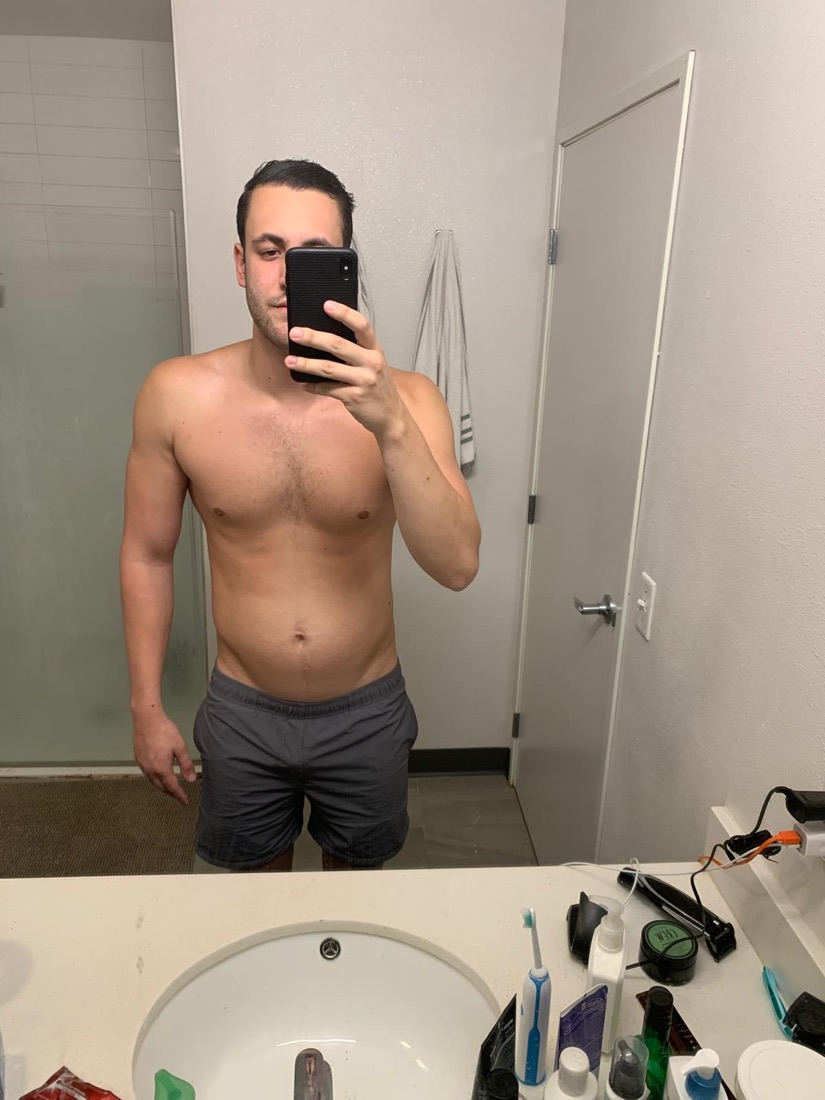
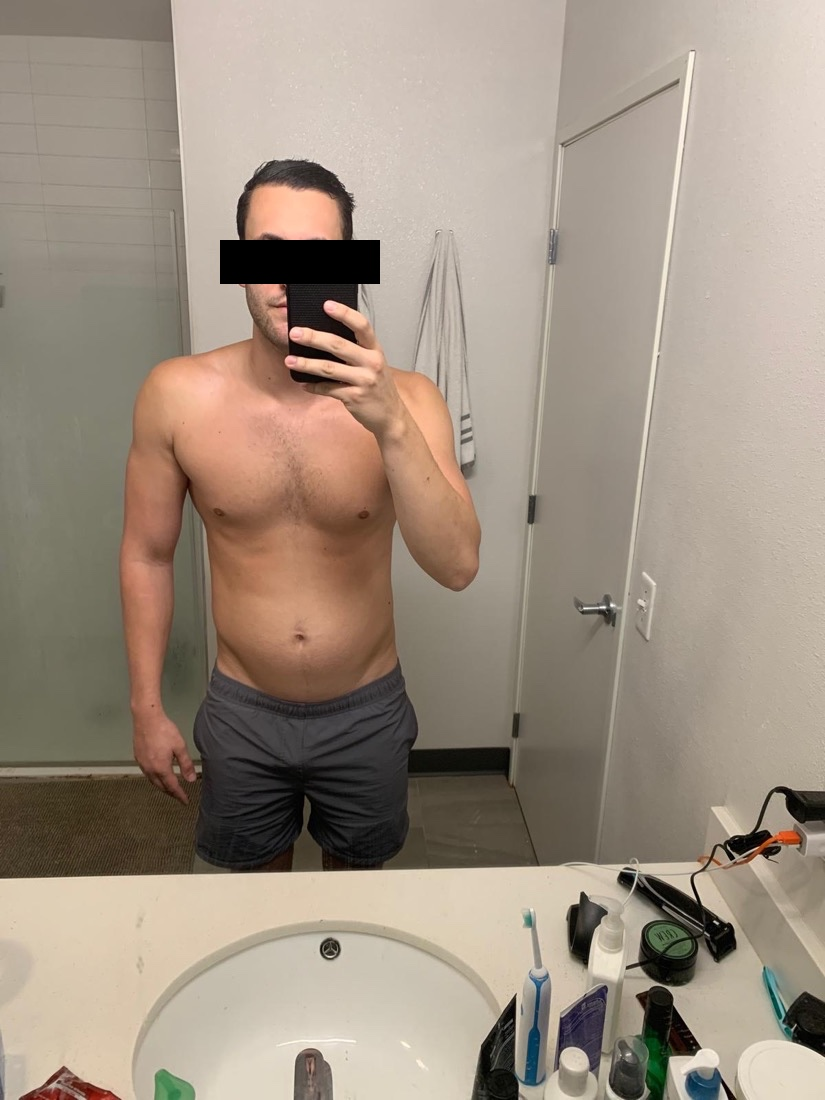
Landing: barra en los ojos para todos los testimonios

Changed region(s): [[0.2424, 0.2164, 0.4848, 0.2782]]

diff --git a/public/vsl/landing-escritorio.html b/public/vsl/landing-escritorio.html
@@ -121,12 +121,12 @@ setTimeout(revisar,0);addEventListener('load',function(){setTimeout(revisar,0)})
         <div class="ecc-bezel ecc-bezel-on-dark">
           <div class="ecc-bezel-core ecc-bezel-core-on-dark" style="padding:0;overflow:hidden" aria-roledescription="carrusel" aria-label="Testimonios">
             <div style="display:flex;transition:transform .7s cubic-bezier(.32,.72,0,1);transform:{{ testiTrack }}">
-              <a href="#testimonios" class="ecc-hero-testi" data-testi="0" style="flex:0 0 100%;min-width:0;box-sizing:border-box;padding:var(--space-4) var(--space-5);display:flex;align-items:center;gap:var(--space-4);text-decoration:none;color:inherit"><div style="position:relative;flex:none;width:52px;height:52px;border-radius:999px;overflow:hidden"><img src="assets/testimonios/testimonio-1-despues.jpg" alt="" loading="lazy" style="position:absolute;inset:0;width:100%;height:100%;object-fit:cover;object-position:50% 22%"></div><div style="display:flex;flex-direction:column;gap:4px;min-width:0"><p style="font-size:14px;line-height:1.5;font-weight:600;color:var(--text-on-dark)">«Me dijeron que era mi genética.»</p><p style="font-size:12px;line-height:1.4;color:var(--text-on-dark-faint)">Héctor V, 27 · Miami, USA · <span class="ecc-hero-testi-ver">Ver su antes y después ↓</span></p></div></a>
-              <a href="#testimonios" class="ecc-hero-testi" data-testi="1" style="flex:0 0 100%;min-width:0;box-sizing:border-box;padding:var(--space-4) var(--space-5);display:flex;align-items:center;gap:var(--space-4);text-decoration:none;color:inherit"><div style="position:relative;flex:none;width:52px;height:52px;border-radius:999px;overflow:hidden"><img src="assets/testimonios/testimonio-2-despues.jpg" alt="" loading="lazy" style="position:absolute;inset:0;width:100%;height:100%;object-fit:cover;object-position:50% 25%"></div><div style="display:flex;flex-direction:column;gap:4px;min-width:0"><p style="font-size:14px;line-height:1.5;font-weight:600;color:var(--text-on-dark)">«Por fin pude ganar músculo.»</p><p style="font-size:12px;line-height:1.4;color:var(--text-on-dark-faint)">Luis F, 31 · Nueva York, USA · <span class="ecc-hero-testi-ver">Ver su antes y después ↓</span></p></div></a>
+              <a href="#testimonios" class="ecc-hero-testi" data-testi="0" style="flex:0 0 100%;min-width:0;box-sizing:border-box;padding:var(--space-4) var(--space-5);display:flex;align-items:center;gap:var(--space-4);text-decoration:none;color:inherit"><div style="position:relative;flex:none;width:52px;height:52px;border-radius:999px;overflow:hidden"><img src="assets/testimonios/testimonio-1-despues.jpg?v=9" alt="" loading="lazy" style="position:absolute;inset:0;width:100%;height:100%;object-fit:cover;object-position:50% 22%"></div><div style="display:flex;flex-direction:column;gap:4px;min-width:0"><p style="font-size:14px;line-height:1.5;font-weight:600;color:var(--text-on-dark)">«Me dijeron que era mi genética.»</p><p style="font-size:12px;line-height:1.4;color:var(--text-on-dark-faint)">Héctor V, 27 · Miami, USA · <span class="ecc-hero-testi-ver">Ver su antes y después ↓</span></p></div></a>
+              <a href="#testimonios" class="ecc-hero-testi" data-testi="1" style="flex:0 0 100%;min-width:0;box-sizing:border-box;padding:var(--space-4) var(--space-5);display:flex;align-items:center;gap:var(--space-4);text-decoration:none;color:inherit"><div style="position:relative;flex:none;width:52px;height:52px;border-radius:999px;overflow:hidden"><img src="assets/testimonios/testimonio-2-despues.jpg?v=9" alt="" loading="lazy" style="position:absolute;inset:0;width:100%;height:100%;object-fit:cover;object-position:50% 25%"></div><div style="display:flex;flex-direction:column;gap:4px;min-width:0"><p style="font-size:14px;line-height:1.5;font-weight:600;color:var(--text-on-dark)">«Por fin pude ganar músculo.»</p><p style="font-size:12px;line-height:1.4;color:var(--text-on-dark-faint)">Luis F, 31 · Nueva York, USA · <span class="ecc-hero-testi-ver">Ver su antes y después ↓</span></p></div></a>
               <a href="#testimonios" class="ecc-hero-testi" data-testi="2" style="flex:0 0 100%;min-width:0;box-sizing:border-box;padding:var(--space-4) var(--space-5);display:flex;align-items:center;gap:var(--space-4);text-decoration:none;color:inherit"><div style="position:relative;flex:none;width:52px;height:52px;border-radius:999px;overflow:hidden"><img src="assets/testimonios/testimonio-6-despues.jpg?v=5" alt="" loading="lazy" style="position:absolute;inset:0;width:100%;height:100%;object-fit:cover;object-position:50% 15%"></div><div style="display:flex;flex-direction:column;gap:4px;min-width:0"><p style="font-size:14px;line-height:1.5;font-weight:600;color:var(--text-on-dark)">«Bajé de peso sin pasar hambre.»</p><p style="font-size:12px;line-height:1.4;color:var(--text-on-dark-faint)">Juan Manuel M, 35 · Miami, USA · <span class="ecc-hero-testi-ver">Ver su antes y después ↓</span></p></div></a>
               <a href="#testimonios" class="ecc-hero-testi" data-testi="3" style="flex:0 0 100%;min-width:0;box-sizing:border-box;padding:var(--space-4) var(--space-5);display:flex;align-items:center;gap:var(--space-4);text-decoration:none;color:inherit"><div style="position:relative;flex:none;width:52px;height:52px;border-radius:999px;overflow:hidden"><img src="assets/testimonios/testimonio-3-despues.jpg?v=3" alt="" loading="lazy" style="position:absolute;inset:0;width:100%;height:100%;object-fit:cover;object-position:60% 15%"></div><div style="display:flex;flex-direction:column;gap:4px;min-width:0"><p style="font-size:14px;line-height:1.5;font-weight:600;color:var(--text-on-dark)">«Estoy más fit que nunca.»</p><p style="font-size:12px;line-height:1.4;color:var(--text-on-dark-faint)">Rodolfo V, 31 · Santiago, Chile · <span class="ecc-hero-testi-ver">Ver su antes y después ↓</span></p></div></a>
               <a href="#testimonios" class="ecc-hero-testi" data-testi="4" style="flex:0 0 100%;min-width:0;box-sizing:border-box;padding:var(--space-4) var(--space-5);display:flex;align-items:center;gap:var(--space-4);text-decoration:none;color:inherit"><div style="position:relative;flex:none;width:52px;height:52px;border-radius:999px;overflow:hidden"><img src="assets/testimonios/testimonio-4-despues.jpg?v=3" alt="" loading="lazy" style="position:absolute;inset:0;width:100%;height:100%;object-fit:cover;object-position:50% 12%"></div><div style="display:flex;flex-direction:column;gap:4px;min-width:0"><p style="font-size:14px;line-height:1.5;font-weight:600;color:var(--text-on-dark)">«Dejé las dietas extremas y gané músculo.»</p><p style="font-size:12px;line-height:1.4;color:var(--text-on-dark-faint)">Diego L, 34 · Buenos Aires, Argentina · <span class="ecc-hero-testi-ver">Ver su antes y después ↓</span></p></div></a>
-              <a href="#testimonios" class="ecc-hero-testi" data-testi="5" style="flex:0 0 100%;min-width:0;box-sizing:border-box;padding:var(--space-4) var(--space-5);display:flex;align-items:center;gap:var(--space-4);text-decoration:none;color:inherit"><div style="position:relative;flex:none;width:52px;height:52px;border-radius:999px;overflow:hidden"><img src="assets/testimonios/testimonio-5-despues.jpg" alt="" loading="lazy" style="position:absolute;inset:0;width:100%;height:100%;object-fit:cover;object-position:55% 18%"></div><div style="display:flex;flex-direction:column;gap:4px;min-width:0"><p style="font-size:14px;line-height:1.5;font-weight:600;color:var(--text-on-dark)">«El problema no era yo, era el plan.»</p><p style="font-size:12px;line-height:1.4;color:var(--text-on-dark-faint)">Alejandro F, 29 · Lima, Perú · <span class="ecc-hero-testi-ver">Ver su antes y después ↓</span></p></div></a>
+              <a href="#testimonios" class="ecc-hero-testi" data-testi="5" style="flex:0 0 100%;min-width:0;box-sizing:border-box;padding:var(--space-4) var(--space-5);display:flex;align-items:center;gap:var(--space-4);text-decoration:none;color:inherit"><div style="position:relative;flex:none;width:52px;height:52px;border-radius:999px;overflow:hidden"><img src="assets/testimonios/testimonio-5-despues.jpg?v=9" alt="" loading="lazy" style="position:absolute;inset:0;width:100%;height:100%;object-fit:cover;object-position:55% 18%"></div><div style="display:flex;flex-direction:column;gap:4px;min-width:0"><p style="font-size:14px;line-height:1.5;font-weight:600;color:var(--text-on-dark)">«El problema no era yo, era el plan.»</p><p style="font-size:12px;line-height:1.4;color:var(--text-on-dark-faint)">Alejandro F, 29 · Lima, Perú · <span class="ecc-hero-testi-ver">Ver su antes y después ↓</span></p></div></a>
             </div>
           </div>
         </div>
@@ -530,8 +530,8 @@ setTimeout(revisar,0);addEventListener('load',function(){setTimeout(revisar,0)})
           <div class="ecc-testi-slide" role="group" aria-roledescription="testimonio" aria-label="1 de 6">
             <div class="ecc-bezel"><div class="ecc-bezel-core ecc-testi-card">
               <div class="ecc-ad-par ecc-testi-fotos">
-                <div class="ecc-ad-foto"><img src="assets/testimonios/testimonio-1-antes.jpg" alt="Héctor V, antes" loading="lazy" style="object-position:50% 45%"><span>Antes</span></div>
-                <div class="ecc-ad-foto"><img src="assets/testimonios/testimonio-1-despues.jpg" alt="Héctor V, después" loading="lazy" style="object-position:42% 28%"><span>Después</span></div>
+                <div class="ecc-ad-foto"><img src="assets/testimonios/testimonio-1-antes.jpg?v=9" alt="Héctor V, antes" loading="lazy" style="object-position:50% 45%"><span>Antes</span></div>
+                <div class="ecc-ad-foto"><img src="assets/testimonios/testimonio-1-despues.jpg?v=9" alt="Héctor V, después" loading="lazy" style="object-position:42% 28%"><span>Después</span></div>
               </div>
               <div class="ecc-testi-texto">
                 <i class="ph-fill ph-quotes" aria-hidden="true"></i>
@@ -544,8 +544,8 @@ setTimeout(revisar,0);addEventListener('load',function(){setTimeout(revisar,0)})
           <div class="ecc-testi-slide" role="group" aria-roledescription="testimonio" aria-label="2 de 6">
             <div class="ecc-bezel"><div class="ecc-bezel-core ecc-testi-card">
               <div class="ecc-ad-par ecc-testi-fotos">
-                <div class="ecc-ad-foto"><img src="assets/testimonios/testimonio-2-antes.jpg" alt="Luis F, antes" loading="lazy" style="object-position:40% 25%"><span>Antes</span></div>
-                <div class="ecc-ad-foto"><img src="assets/testimonios/testimonio-2-despues.jpg" alt="Luis F, después" loading="lazy" style="object-position:50% 45%"><span>Después</span></div>
+                <div class="ecc-ad-foto"><img src="assets/testimonios/testimonio-2-antes.jpg?v=9" alt="Luis F, antes" loading="lazy" style="object-position:40% 25%"><span>Antes</span></div>
+                <div class="ecc-ad-foto"><img src="assets/testimonios/testimonio-2-despues.jpg?v=9" alt="Luis F, después" loading="lazy" style="object-position:50% 45%"><span>Después</span></div>
               </div>
               <div class="ecc-testi-texto">
                 <i class="ph-fill ph-quotes" aria-hidden="true"></i>
@@ -600,8 +600,8 @@ setTimeout(revisar,0);addEventListener('load',function(){setTimeout(revisar,0)})
           <div class="ecc-testi-slide" role="group" aria-roledescription="testimonio" aria-label="6 de 6">
             <div class="ecc-bezel"><div class="ecc-bezel-core ecc-testi-card">
               <div class="ecc-ad-par ecc-testi-fotos">
-                <div class="ecc-ad-foto"><img src="assets/testimonios/testimonio-5-antes.jpg" alt="Alejandro F, antes" loading="lazy" style="object-position:50% 50%"><span>Antes</span></div>
-                <div class="ecc-ad-foto"><img src="assets/testimonios/testimonio-5-despues.jpg" alt="Alejandro F, después" loading="lazy" style="object-position:50% 50%"><span>Después</span></div>
+                <div class="ecc-ad-foto"><img src="assets/testimonios/testimonio-5-antes.jpg?v=9" alt="Alejandro F, antes" loading="lazy" style="object-position:50% 50%"><span>Antes</span></div>
+                <div class="ecc-ad-foto"><img src="assets/testimonios/testimonio-5-despues.jpg?v=9" alt="Alejandro F, después" loading="lazy" style="object-position:50% 50%"><span>Después</span></div>
               </div>
               <div class="ecc-testi-texto">
                 <i class="ph-fill ph-quotes" aria-hidden="true"></i>

diff --git a/public/vsl/landing-movil.html b/public/vsl/landing-movil.html
@@ -143,12 +143,12 @@ setTimeout(revisar,0);addEventListener('load',function(){setTimeout(revisar,0)})
         <div class="ecc-bezel ecc-bezel-on-dark">
           <div class="ecc-bezel-core ecc-bezel-core-on-dark" style="padding:0;overflow:hidden" aria-roledescription="carrusel" aria-label="Testimonios">
             <div style="display:flex;transition:transform .7s cubic-bezier(.32,.72,0,1);transform:{{ testiTrack }}">
-              <a href="#testimonios" class="ecc-hero-testi" data-testi="0" style="flex:0 0 100%;min-width:0;box-sizing:border-box;padding:var(--space-4) var(--space-5);display:flex;align-items:center;gap:var(--space-4);text-decoration:none;color:inherit"><div style="position:relative;flex:none;width:52px;height:52px;border-radius:999px;overflow:hidden"><img src="assets/testimonios/testimonio-1-despues.jpg" alt="" loading="lazy" style="position:absolute;inset:0;width:100%;height:100%;object-fit:cover;object-position:50% 22%"></div><div style="display:flex;flex-direction:column;gap:4px;min-width:0"><p style="font-size:14px;line-height:1.5;font-weight:600;color:var(--text-on-dark)">«Me dijeron que era mi genética.»</p><p style="font-size:12px;line-height:1.4;color:var(--text-on-dark-faint)">Héctor V, 27 · Miami, USA · <span class="ecc-hero-testi-ver">Ver su antes y después ↓</span></p></div></a>
-              <a href="#testimonios" class="ecc-hero-testi" data-testi="1" style="flex:0 0 100%;min-width:0;box-sizing:border-box;padding:var(--space-4) var(--space-5);display:flex;align-items:center;gap:var(--space-4);text-decoration:none;color:inherit"><div style="position:relative;flex:none;width:52px;height:52px;border-radius:999px;overflow:hidden"><img src="assets/testimonios/testimonio-2-despues.jpg" alt="" loading="lazy" style="position:absolute;inset:0;width:100%;height:100%;object-fit:cover;object-position:50% 25%"></div><div style="display:flex;flex-direction:column;gap:4px;min-width:0"><p style="font-size:14px;line-height:1.5;font-weight:600;color:var(--text-on-dark)">«Por fin pude ganar músculo.»</p><p style="font-size:12px;line-height:1.4;color:var(--text-on-dark-faint)">Luis F, 31 · Nueva York, USA · <span class="ecc-hero-testi-ver">Ver su antes y después ↓</span></p></div></a>
+              <a href="#testimonios" class="ecc-hero-testi" data-testi="0" style="flex:0 0 100%;min-width:0;box-sizing:border-box;padding:var(--space-4) var(--space-5);display:flex;align-items:center;gap:var(--space-4);text-decoration:none;color:inherit"><div style="position:relative;flex:none;width:52px;height:52px;border-radius:999px;overflow:hidden"><img src="assets/testimonios/testimonio-1-despues.jpg?v=9" alt="" loading="lazy" style="position:absolute;inset:0;width:100%;height:100%;object-fit:cover;object-position:50% 22%"></div><div style="display:flex;flex-direction:column;gap:4px;min-width:0"><p style="font-size:14px;line-height:1.5;font-weight:600;color:var(--text-on-dark)">«Me dijeron que era mi genética.»</p><p style="font-size:12px;line-height:1.4;color:var(--text-on-dark-faint)">Héctor V, 27 · Miami, USA · <span class="ecc-hero-testi-ver">Ver su antes y después ↓</span></p></div></a>
+              <a href="#testimonios" class="ecc-hero-testi" data-testi="1" style="flex:0 0 100%;min-width:0;box-sizing:border-box;padding:var(--space-4) var(--space-5);display:flex;align-items:center;gap:var(--space-4);text-decoration:none;color:inherit"><div style="position:relative;flex:none;width:52px;height:52px;border-radius:999px;overflow:hidden"><img src="assets/testimonios/testimonio-2-despues.jpg?v=9" alt="" loading="lazy" style="position:absolute;inset:0;width:100%;height:100%;object-fit:cover;object-position:50% 25%"></div><div style="display:flex;flex-direction:column;gap:4px;min-width:0"><p style="font-size:14px;line-height:1.5;font-weight:600;color:var(--text-on-dark)">«Por fin pude ganar músculo.»</p><p style="font-size:12px;line-height:1.4;color:var(--text-on-dark-faint)">Luis F, 31 · Nueva York, USA · <span class="ecc-hero-testi-ver">Ver su antes y después ↓</span></p></div></a>
               <a href="#testimonios" class="ecc-hero-testi" data-testi="2" style="flex:0 0 100%;min-width:0;box-sizing:border-box;padding:var(--space-4) var(--space-5);display:flex;align-items:center;gap:var(--space-4);text-decoration:none;color:inherit"><div style="position:relative;flex:none;width:52px;height:52px;border-radius:999px;overflow:hidden"><img src="assets/testimonios/testimonio-6-despues.jpg?v=5" alt="" loading="lazy" style="position:absolute;inset:0;width:100%;height:100%;object-fit:cover;object-position:50% 15%"></div><div style="display:flex;flex-direction:column;gap:4px;min-width:0"><p style="font-size:14px;line-height:1.5;font-weight:600;color:var(--text-on-dark)">«Bajé de peso sin pasar hambre.»</p><p style="font-size:12px;line-height:1.4;color:var(--text-on-dark-faint)">Juan Manuel M, 35 · Miami, USA · <span class="ecc-hero-testi-ver">Ver su antes y después ↓</span></p></div></a>
               <a href="#testimonios" class="ecc-hero-testi" data-testi="3" style="flex:0 0 100%;min-width:0;box-sizing:border-box;padding:var(--space-4) var(--space-5);display:flex;align-items:center;gap:var(--space-4);text-decoration:none;color:inherit"><div style="position:relative;flex:none;width:52px;height:52px;border-radius:999px;overflow:hidden"><img src="assets/testimonios/testimonio-3-despues.jpg?v=3" alt="" loading="lazy" style="position:absolute;inset:0;width:100%;height:100%;object-fit:cover;object-position:60% 15%"></div><div style="display:flex;flex-direction:column;gap:4px;min-width:0"><p style="font-size:14px;line-height:1.5;font-weight:600;color:var(--text-on-dark)">«Estoy más fit que nunca.»</p><p style="font-size:12px;line-height:1.4;color:var(--text-on-dark-faint)">Rodolfo V, 31 · Santiago, Chile · <span class="ecc-hero-testi-ver">Ver su antes y después ↓</span></p></div></a>
               <a href="#testimonios" class="ecc-hero-testi" data-testi="4" style="flex:0 0 100%;min-width:0;box-sizing:border-box;padding:var(--space-4) var(--space-5);display:flex;align-items:center;gap:var(--space-4);text-decoration:none;color:inherit"><div style="position:relative;flex:none;width:52px;height:52px;border-radius:999px;overflow:hidden"><img src="assets/testimonios/testimonio-4-despues.jpg?v=3" alt="" loading="lazy" style="position:absolute;inset:0;width:100%;height:100%;object-fit:cover;object-position:50% 12%"></div><div style="display:flex;flex-direction:column;gap:4px;min-width:0"><p style="font-size:14px;line-height:1.5;font-weight:600;color:var(--text-on-dark)">«Dejé las dietas extremas y gané músculo.»</p><p style="font-size:12px;line-height:1.4;color:var(--text-on-dark-faint)">Diego L, 34 · Buenos Aires, Argentina · <span class="ecc-hero-testi-ver">Ver su antes y después ↓</span></p></div></a>
-              <a href="#testimonios" class="ecc-hero-testi" data-testi="5" style="flex:0 0 100%;min-width:0;box-sizing:border-box;padding:var(--space-4) var(--space-5);display:flex;align-items:center;gap:var(--space-4);text-decoration:none;color:inherit"><div style="position:relative;flex:none;width:52px;height:52px;border-radius:999px;overflow:hidden"><img src="assets/testimonios/testimonio-5-despues.jpg" alt="" loading="lazy" style="position:absolute;inset:0;width:100%;height:100%;object-fit:cover;object-position:55% 18%"></div><div style="display:flex;flex-direction:column;gap:4px;min-width:0"><p style="font-size:14px;line-height:1.5;font-weight:600;color:var(--text-on-dark)">«El problema no era yo, era el plan.»</p><p style="font-size:12px;line-height:1.4;color:var(--text-on-dark-faint)">Alejandro F, 29 · Lima, Perú · <span class="ecc-hero-testi-ver">Ver su antes y después ↓</span></p></div></a>
+              <a href="#testimonios" class="ecc-hero-testi" data-testi="5" style="flex:0 0 100%;min-width:0;box-sizing:border-box;padding:var(--space-4) var(--space-5);display:flex;align-items:center;gap:var(--space-4);text-decoration:none;color:inherit"><div style="position:relative;flex:none;width:52px;height:52px;border-radius:999px;overflow:hidden"><img src="assets/testimonios/testimonio-5-despues.jpg?v=9" alt="" loading="lazy" style="position:absolute;inset:0;width:100%;height:100%;object-fit:cover;object-position:55% 18%"></div><div style="display:flex;flex-direction:column;gap:4px;min-width:0"><p style="font-size:14px;line-height:1.5;font-weight:600;color:var(--text-on-dark)">«El problema no era yo, era el plan.»</p><p style="font-size:12px;line-height:1.4;color:var(--text-on-dark-faint)">Alejandro F, 29 · Lima, Perú · <span class="ecc-hero-testi-ver">Ver su antes y después ↓</span></p></div></a>
             </div>
           </div>
         </div>
@@ -552,8 +552,8 @@ setTimeout(revisar,0);addEventListener('load',function(){setTimeout(revisar,0)})
           <div class="ecc-testi-slide" role="group" aria-roledescription="testimonio" aria-label="1 de 6">
             <div class="ecc-bezel"><div class="ecc-bezel-core ecc-testi-card">
               <div class="ecc-ad-par ecc-testi-fotos">
-                <div class="ecc-ad-foto"><img src="assets/testimonios/testimonio-1-antes.jpg" alt="Héctor V, antes" loading="lazy" style="object-position:50% 45%"><span>Antes</span></div>
-                <div class="ecc-ad-foto"><img src="assets/testimonios/testimonio-1-despues.jpg" alt="Héctor V, después" loading="lazy" style="object-position:42% 28%"><span>Después</span></div>
+                <div class="ecc-ad-foto"><img src="assets/testimonios/testimonio-1-antes.jpg?v=9" alt="Héctor V, antes" loading="lazy" style="object-position:50% 45%"><span>Antes</span></div>
+                <div class="ecc-ad-foto"><img src="assets/testimonios/testimonio-1-despues.jpg?v=9" alt="Héctor V, después" loading="lazy" style="object-position:42% 28%"><span>Después</span></div>
               </div>
               <div class="ecc-testi-texto">
                 <i class="ph-fill ph-quotes" aria-hidden="true"></i>
@@ -566,8 +566,8 @@ setTimeout(revisar,0);addEventListener('load',function(){setTimeout(revisar,0)})
           <div class="ecc-testi-slide" role="group" aria-roledescription="testimonio" aria-label="2 de 6">
             <div class="ecc-bezel"><div class="ecc-bezel-core ecc-testi-card">
               <div class="ecc-ad-par ecc-testi-fotos">
-                <div class="ecc-ad-foto"><img src="assets/testimonios/testimonio-2-antes.jpg" alt="Luis F, antes" loading="lazy" style="object-position:40% 25%"><span>Antes</span></div>
-                <div class="ecc-ad-foto"><img src="assets/testimonios/testimonio-2-despues.jpg" alt="Luis F, después" loading="lazy" style="object-position:50% 45%"><span>Después</span></div>
+                <div class="ecc-ad-foto"><img src="assets/testimonios/testimonio-2-antes.jpg?v=9" alt="Luis F, antes" loading="lazy" style="object-position:40% 25%"><span>Antes</span></div>
+                <div class="ecc-ad-foto"><img src="assets/testimonios/testimonio-2-despues.jpg?v=9" alt="Luis F, después" loading="lazy" style="object-position:50% 45%"><span>Después</span></div>
               </div>
               <div class="ecc-testi-texto">
                 <i class="ph-fill ph-quotes" aria-hidden="true"></i>
@@ -622,8 +622,8 @@ setTimeout(revisar,0);addEventListener('load',function(){setTimeout(revisar,0)})
           <div class="ecc-testi-slide" role="group" aria-roledescription="testimonio" aria-label="6 de 6">
             <div class="ecc-bezel"><div class="ecc-bezel-core ecc-testi-card">
               <div class="ecc-ad-par ecc-testi-fotos">
-                <div class="ecc-ad-foto"><img src="assets/testimonios/testimonio-5-antes.jpg" alt="Alejandro F, antes" loading="lazy" style="object-position:50% 50%"><span>Antes</span></div>
-                <div class="ecc-ad-foto"><img src="assets/testimonios/testimonio-5-despues.jpg" alt="Alejandro F, después" loading="lazy" style="object-position:50% 50%"><span>Después</span></div>
+                <div class="ecc-ad-foto"><img src="assets/testimonios/testimonio-5-antes.jpg?v=9" alt="Alejandro F, antes" loading="lazy" style="object-position:50% 50%"><span>Antes</span></div>
+                <div class="ecc-ad-foto"><img src="assets/testimonios/testimonio-5-despues.jpg?v=9" alt="Alejandro F, después" loading="lazy" style="object-position:50% 50%"><span>Después</span></div>
               </div>
               <div class="ecc-testi-texto">
                 <i class="ph-fill ph-quotes" aria-hidden="true"></i>
